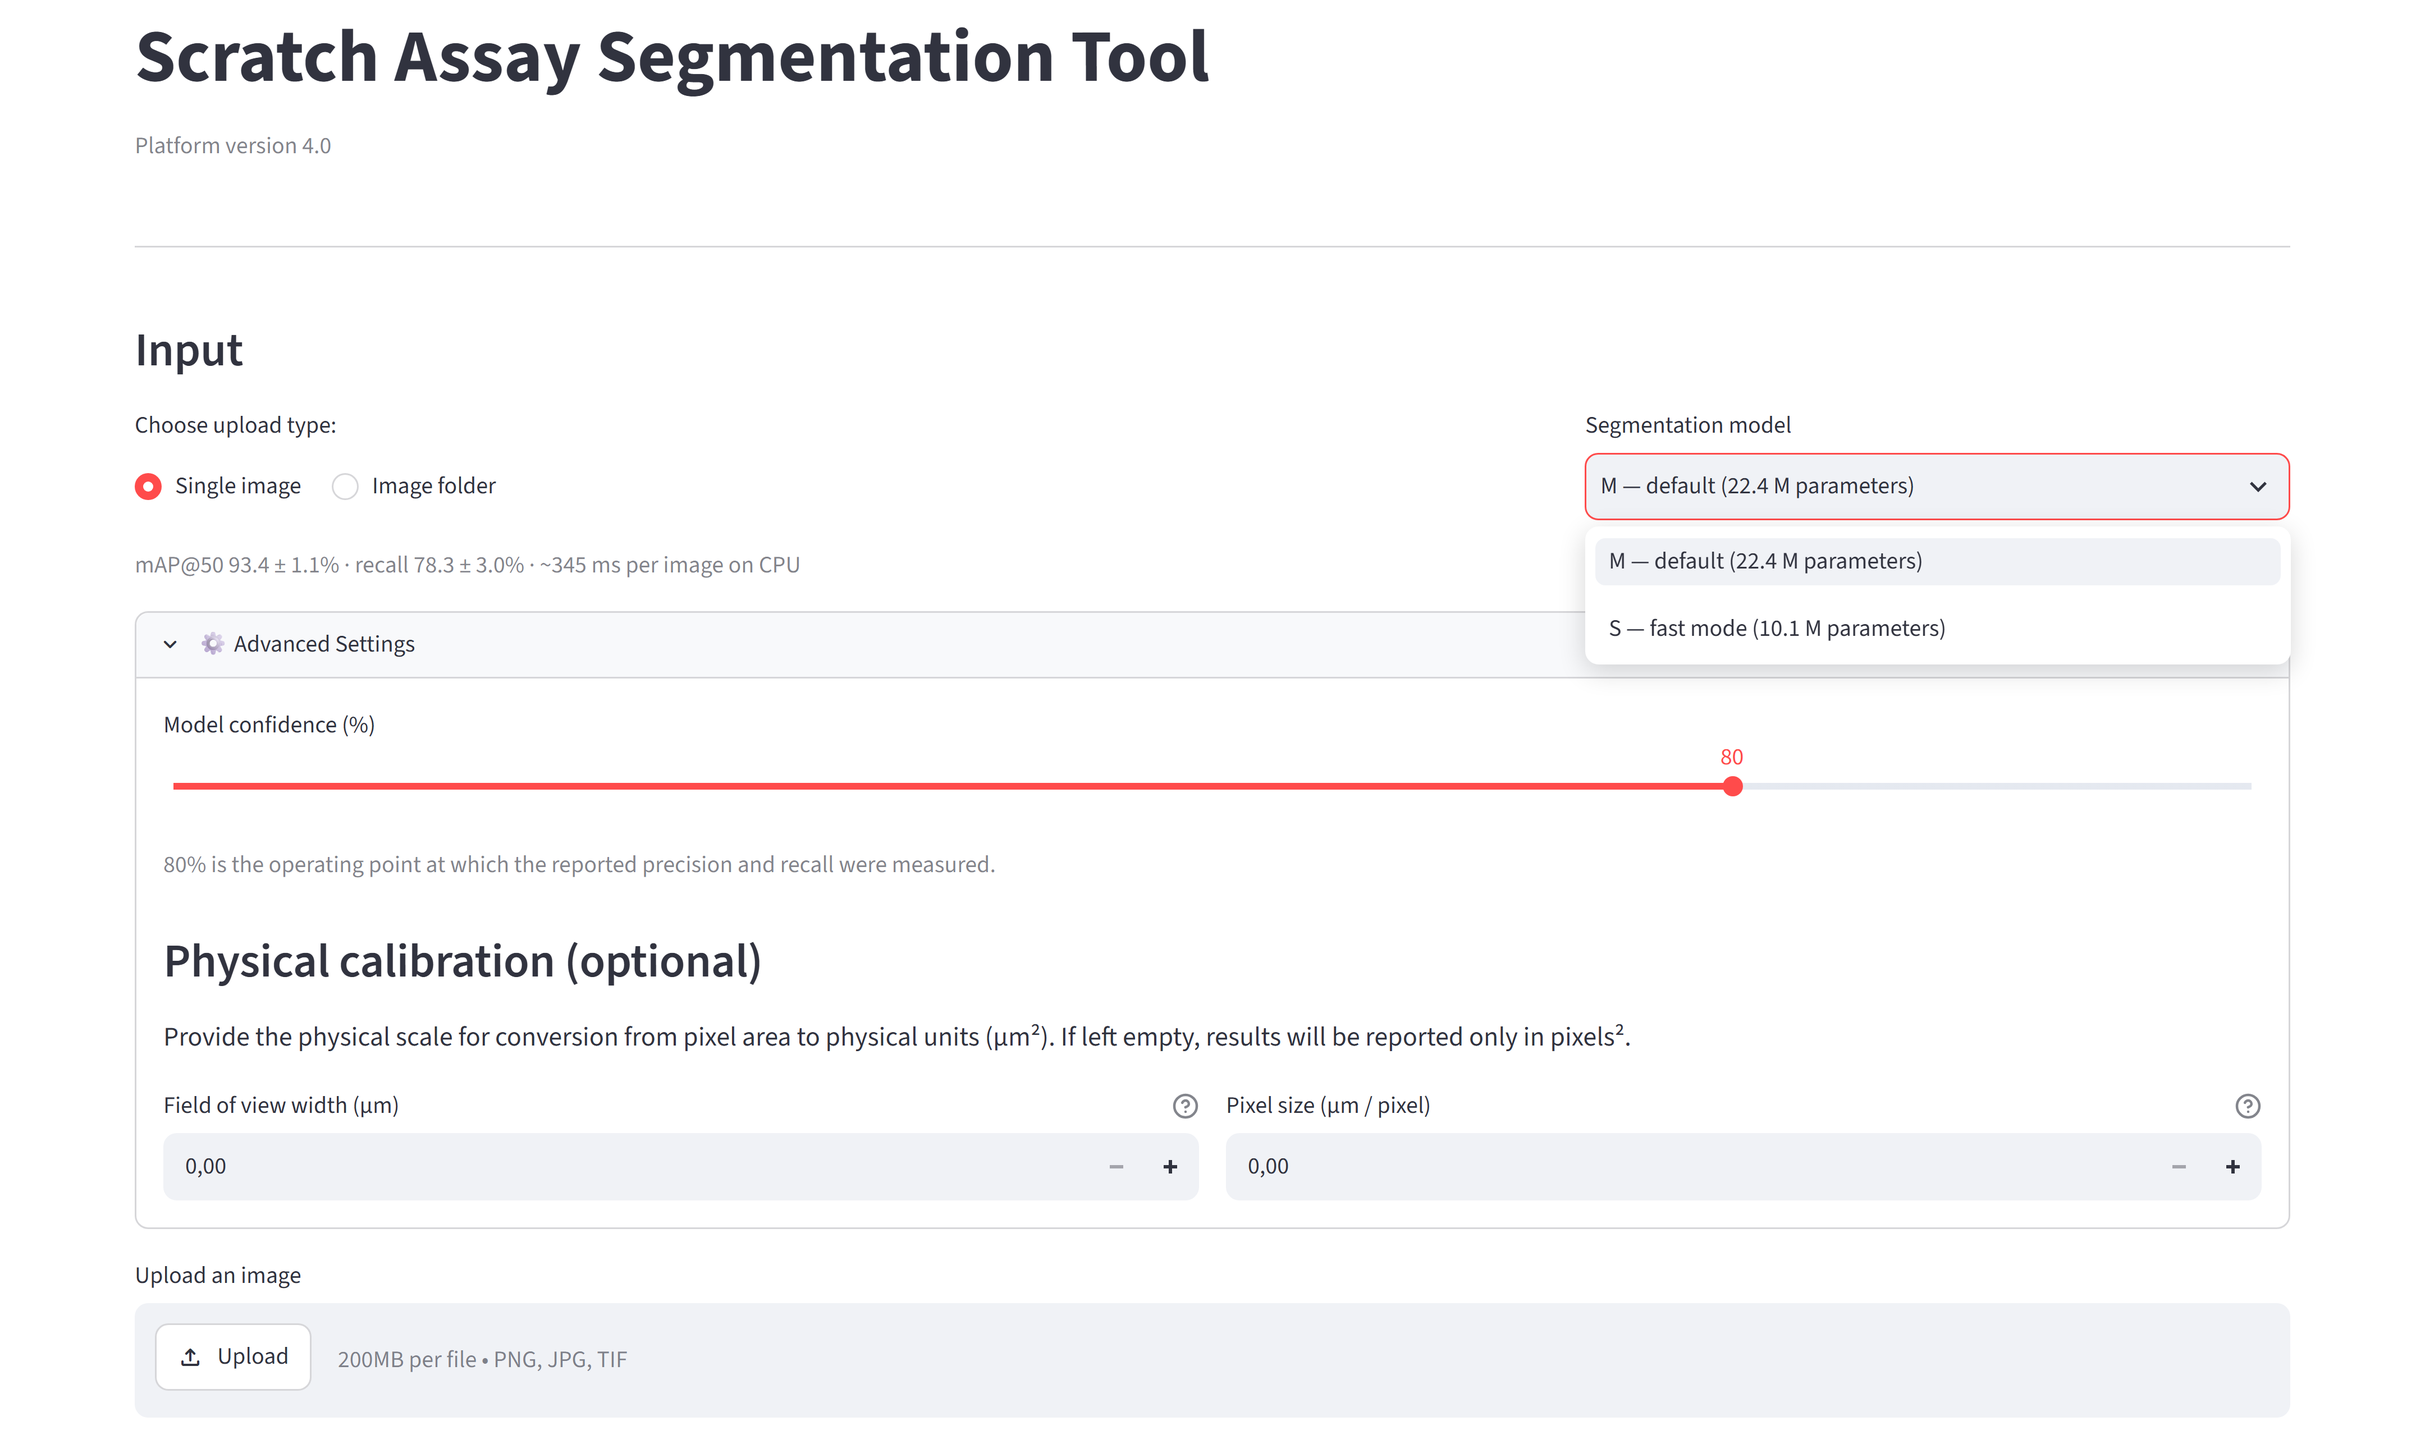
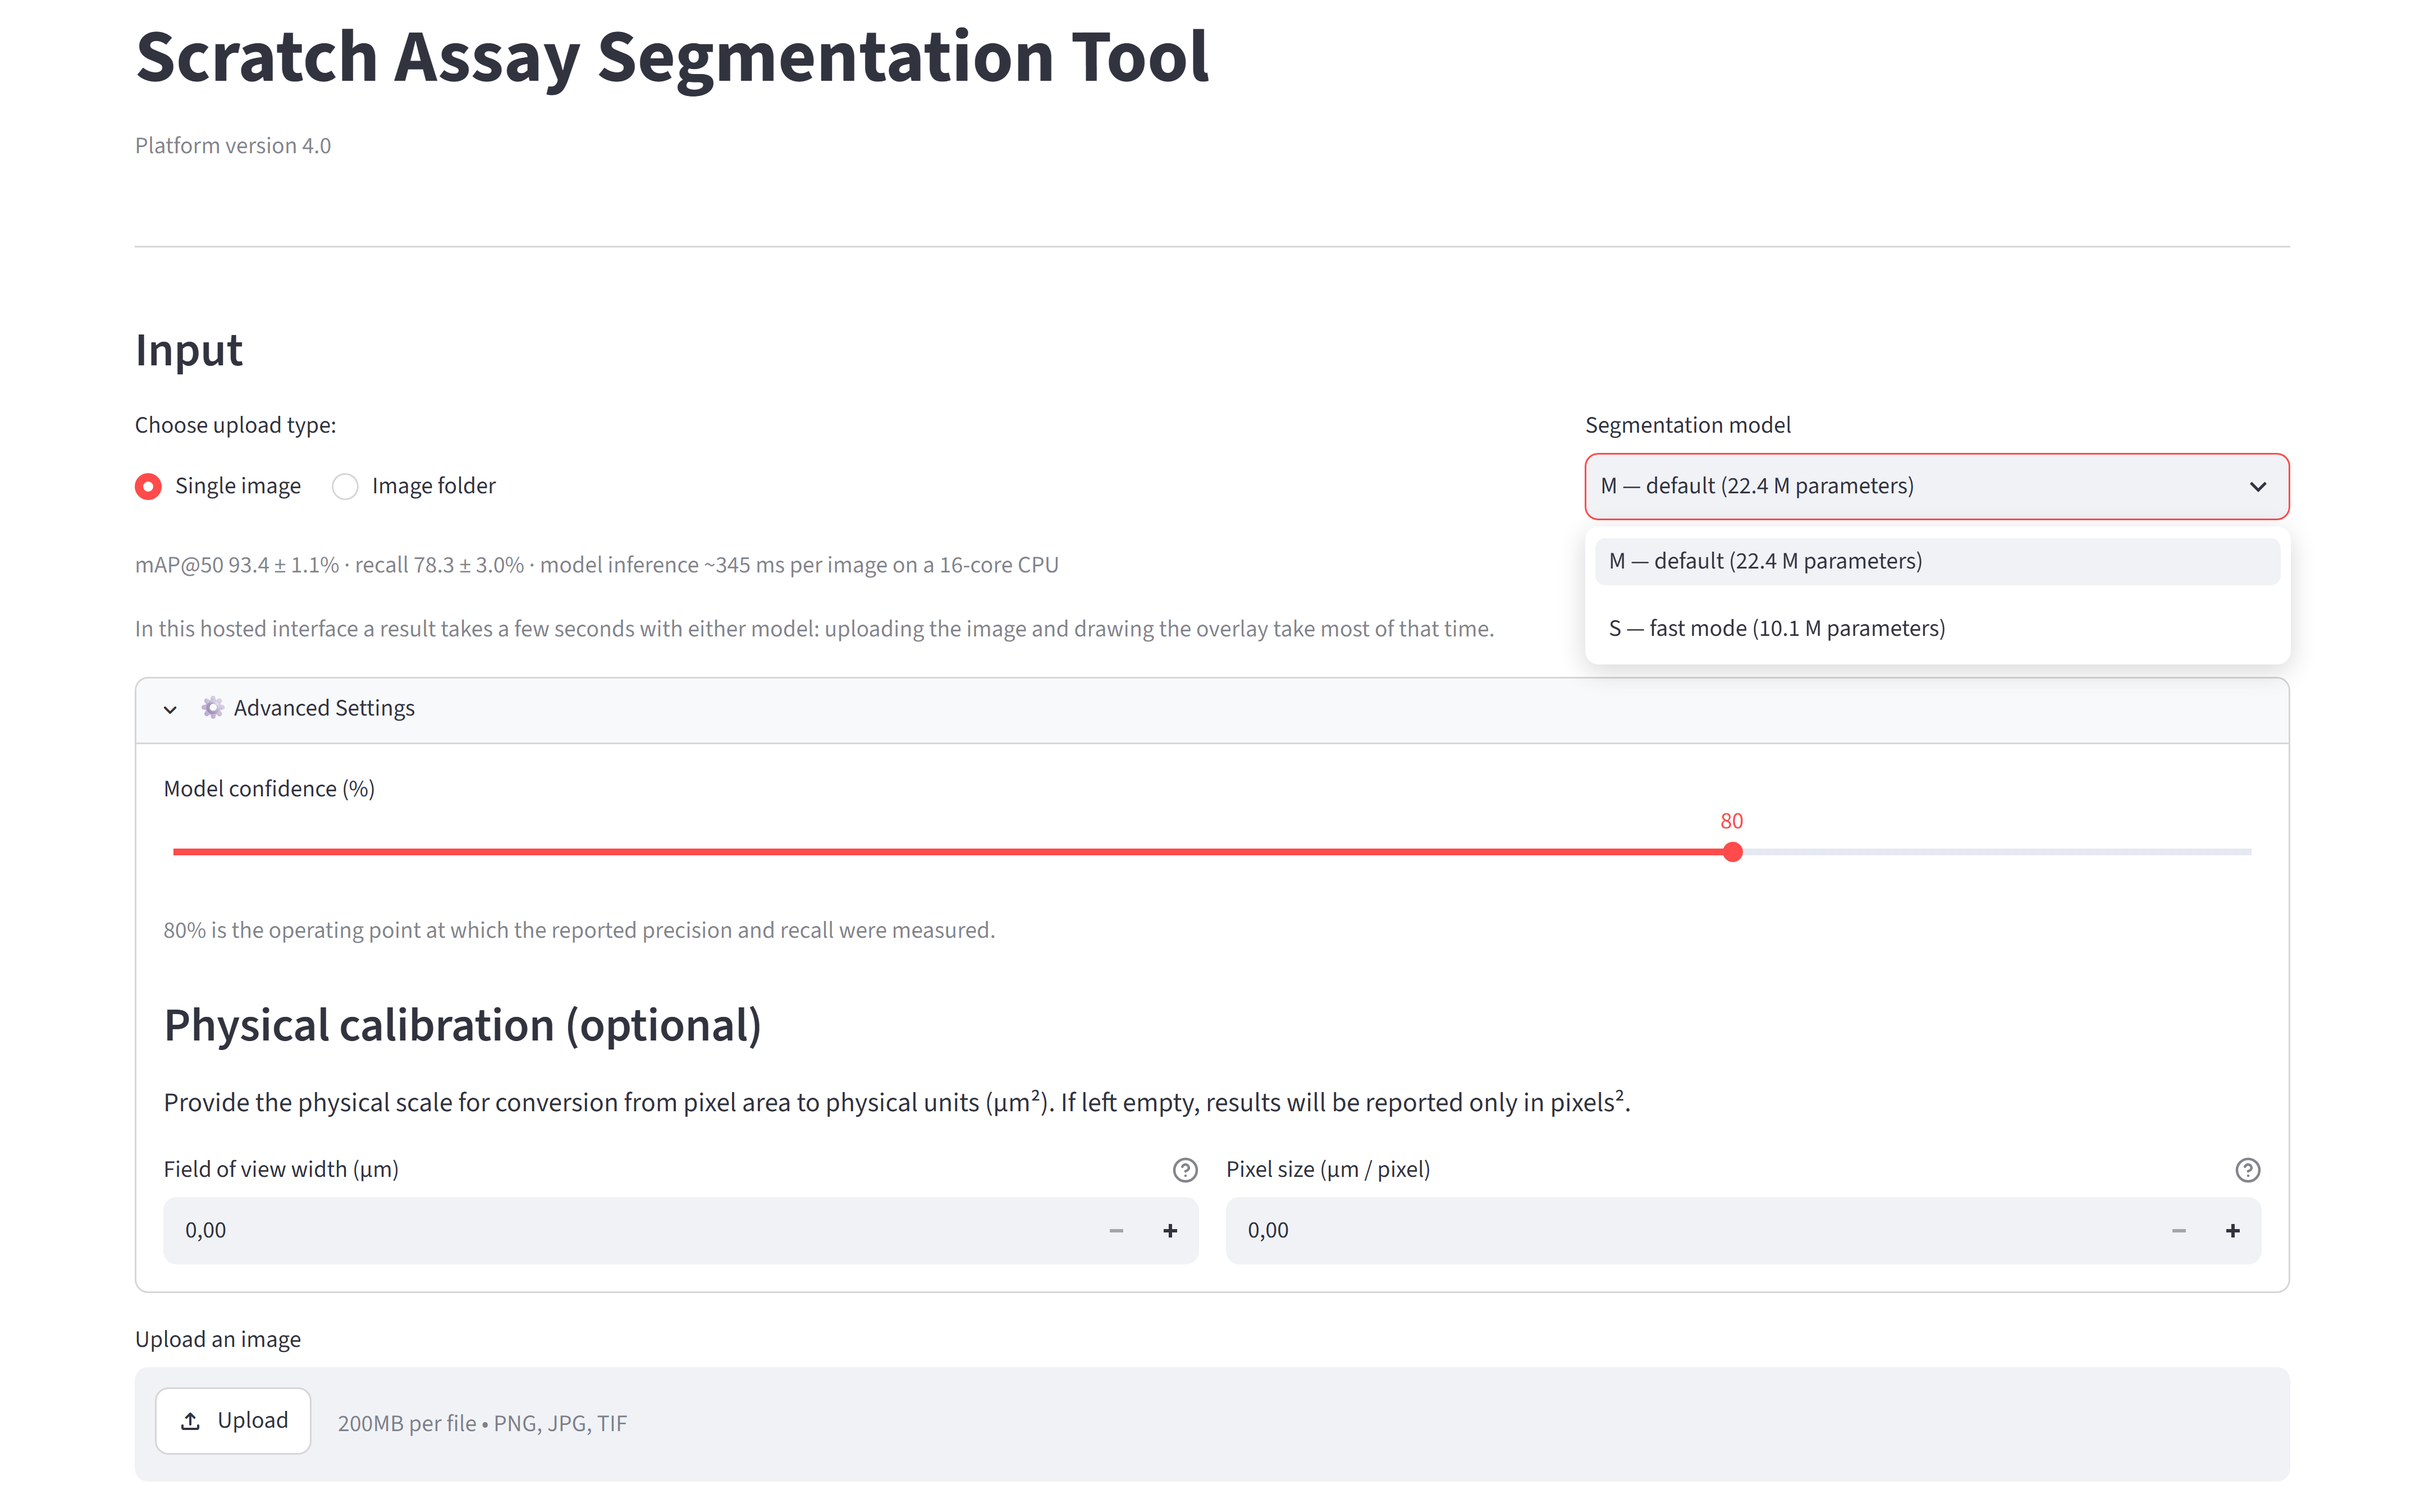
A legenda do seletor de modelo passa a dizer que os tempos sao de inferencia, e a Figura 2 mostra a legenda nova

diff --git a/webapp/app.py b/webapp/app.py
@@ -58,12 +58,23 @@ MODEL_STORAGE_KEY = {
 }
 
 # Measured on the held-out test set (n = 234), mean ± SD over five seeds;
-# latency is the median over 40 images on 16 CPU cores. Shown in the interface
-# so the trade-off is stated rather than discovered.
+# latency is the median model inference over 40 images on 16 CPU cores. Shown in
+# the interface so the trade-off is stated rather than discovered.
 MODEL_INFO = {
-    "M": "mAP@50 93.4 ± 1.1% · recall 78.3 ± 3.0% · ~345 ms per image on CPU",
-    "S": "mAP@50 94.0 ± 0.7% · recall 74.3 ± 2.3% · ~174 ms per image on CPU",
+    "M": "mAP@50 93.4 ± 1.1% · recall 78.3 ± 3.0% · model inference ~345 ms per image "
+         "on a 16-core CPU",
+    "S": "mAP@50 94.0 ± 0.7% · recall 74.3 ± 2.3% · model inference ~174 ms per image "
+         "on a 16-core CPU",
 }
+# This hosted interface takes a few seconds per image with either model: uploading
+# the image and drawing the overlay take most of that time, so the smaller model
+# saves only a fraction of it. Said in the interface, so that "fast mode" is not
+# read as a page that returns twice as fast.
+# Short enough to end before the open model list, which is drawn over the right-hand end
+# of this line: the first wording ("…a few seconds per image with either model…") ran
+# under it, and the Figure 2 capture showed the sentence cut off.
+HOSTED_NOTE = ("In this hosted interface a result takes a few seconds with either model: "
+               "uploading the image and drawing the overlay take most of that time.")
 
 
 # =========================
@@ -385,6 +396,7 @@ with col_input_2:
 
 model = load_model(MODEL_OPTIONS[selected_model_label])
 st.caption(MODEL_INFO[MODEL_STORAGE_KEY[selected_model_label]])
+st.caption(HOSTED_NOTE)
 
 _pad = _padding_efetivo()
 if _pad != PADDING_FILL:

diff --git a/webapp/capture_figures.py b/webapp/capture_figures.py
@@ -470,9 +470,9 @@ def main():
                 # same 180 mm.
                 try:
                     page.set_input_files("input[type='file']", amostra, timeout=30000)
-                    # inference on the free CPU Space is ~350 ms for M, but the upload,
-                    # the rerun and the contour plot dominate; wait on the result, not
-                    # on a fixed sleep
+                    # the hosted interface takes a few seconds per image end to end; the
+                    # model inference is a small part of it, and the upload, the rerun and
+                    # the contour plot dominate. Wait on the result, not on a fixed sleep
                     page.wait_for_selector("text=Segmented area", timeout=300000)
                     # the Export buttons and the feedback block render after the
                     # panels; wait on the last of them, not on the first
